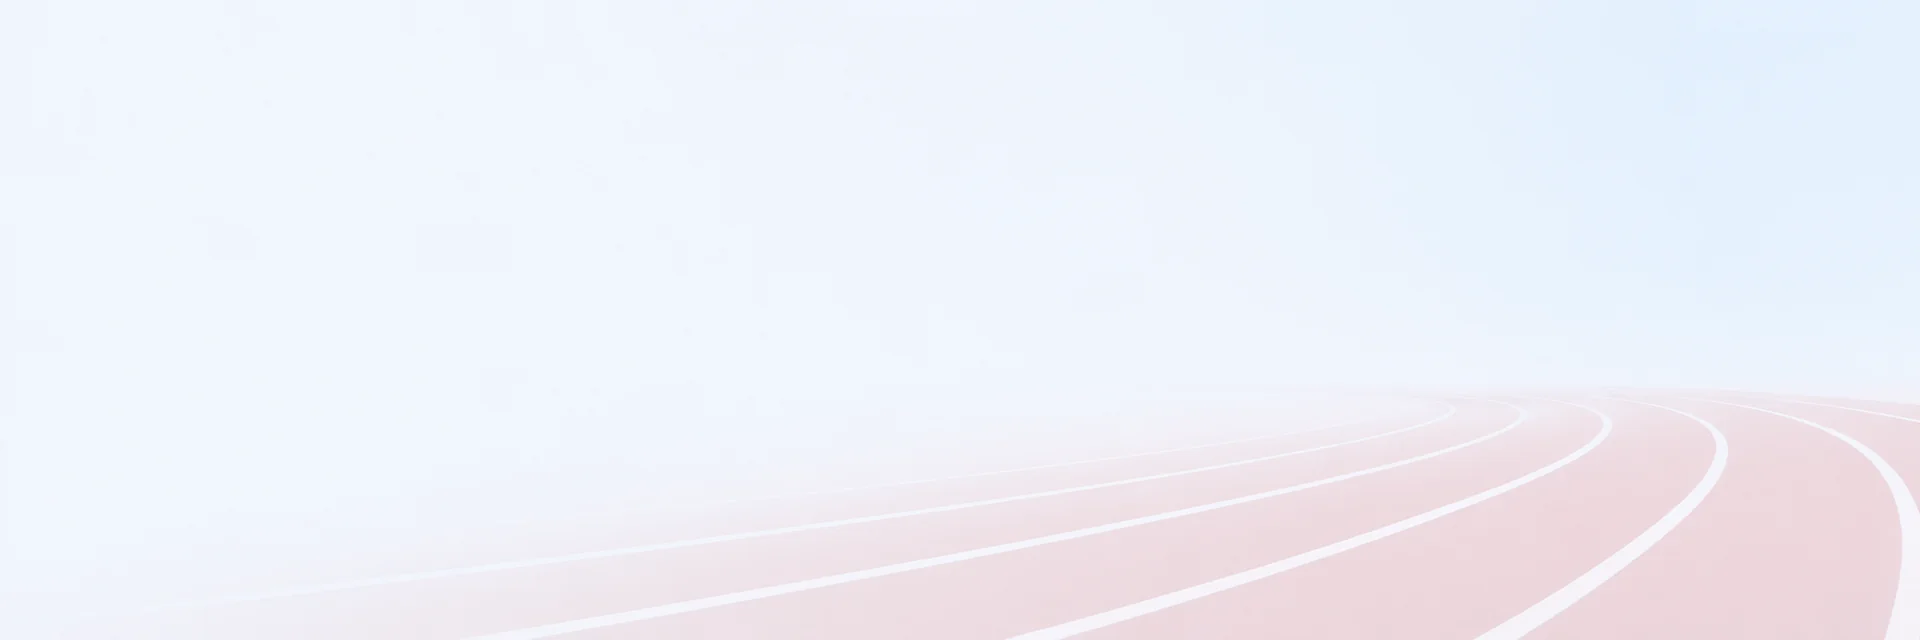
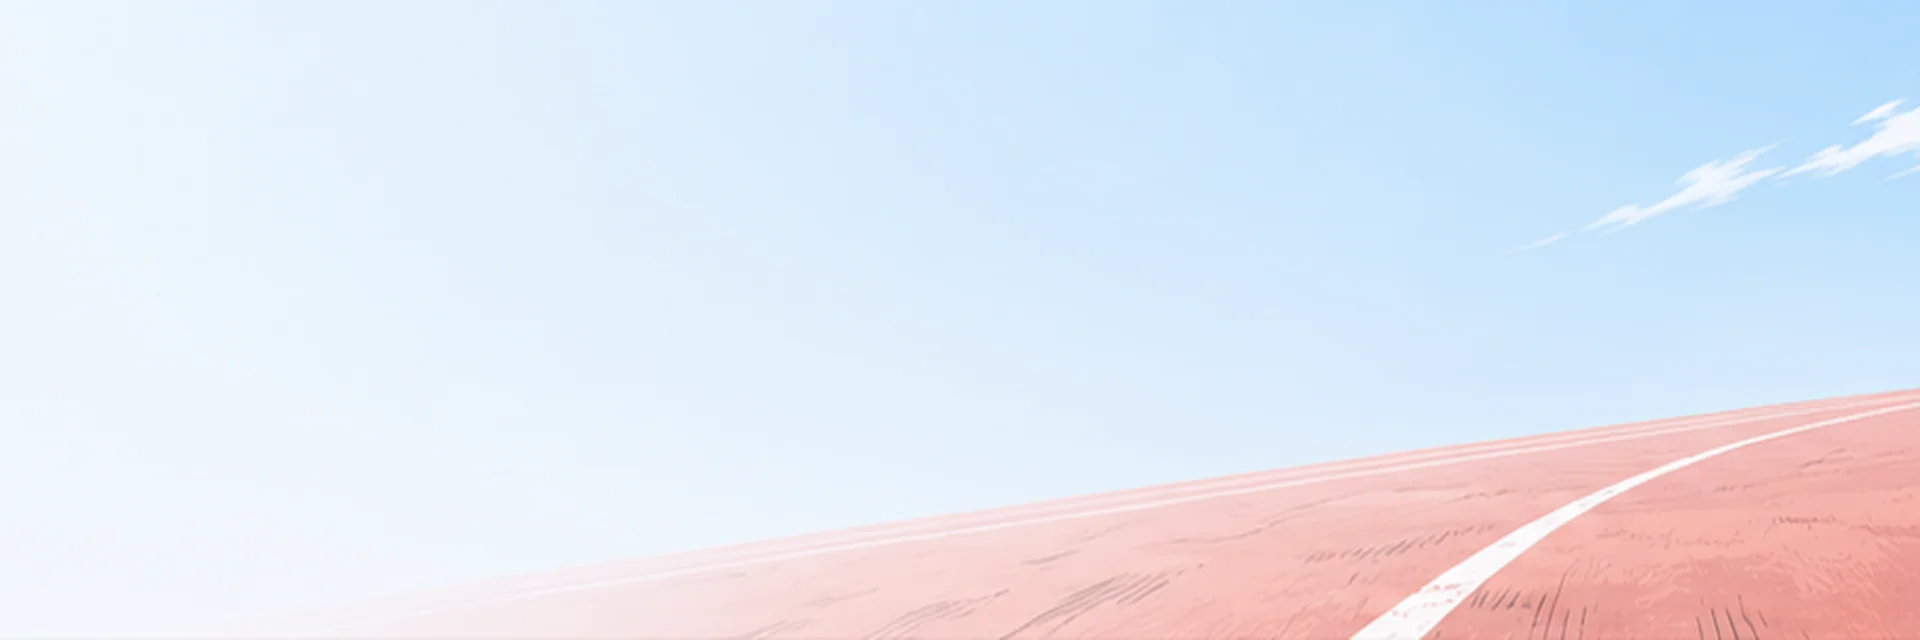
desain(G10-02): Ilustrasi anime halaman depan dan sapuan hero

diff --git a/desain/catatan/G10-02.md b/desain/catatan/G10-02.md
@@ -1,0 +1,29 @@
+# G10-02 Ilustrasi halaman depan
+
+| Berkas | Ukuran | Format | KB |
+|---|---|---|---:|
+| `tokoh-lari.webp` | 1200 × 1200 | WebP alfa | 99,73 |
+| `tokoh-lompat.webp` | 1200 × 1200 | WebP alfa | 98,25 |
+| `tokoh-lempar.webp` | 1200 × 1200 | WebP alfa | 92,64 |
+| `latar-pita.webp` | 1920 × 640 | WebP | 53,24 |
+| `latar-lintasan.webp` | 1920 × 640 | WebP | 17,84 |
+| `latar-angka.webp` | 1920 × 900 | WebP | 100,65 |
+| `kartu-ku.webp` | 800 × 600 | WebP alfa | 42,59 |
+| `hero-sapuan.webp` | 1600 × 900 | WebP alfa | 22,84 |
+
+Prompt dasar dan tambahan tetap berikut dipakai bersama adegan di tabel. Garis tinta, bayangan keras, dan palet mengacu pada rujukan lintasan.
+
+> 2D cel-shaded sports anime illustration, school-age track athletes, dynamic sprint poses, bold linework, crisp shadow shapes, low-angle track composition, brand-colored jerseys. Clean background, no text, no letters, no numbers, no logos, no watermark, modest sportswear, Indonesian school kids, original characters.
+
+| Berkas | Ringkasan arahan gambar |
+|---|---|
+| `tokoh-lari.webp` | Tokoh A sprint ke kanan, sudut rendah dengan garis kecepatan tipis di belakang. |
+| `tokoh-lompat.webp` | Tokoh B berjilbab olahraga melayang dengan kaki menjorok ke depan. |
+| `tokoh-lempar.webp` | Tokoh C memutar badan sambil menyiapkan peluru di leher. |
+| `latar-pita.webp` | Sapuan tinta biru, oranye dan magenta dari kanan bawah menuju kanan atas, sisi kiri putih kebiruan. |
+| `latar-lintasan.webp` | Tikungan lintasan merah bata dalam cahaya terang dengan garis putih dan kontras rendah untuk kartu. |
+| `latar-angka.webp` | Tribun sekolah di siang hari, langit biru bergaris awan, atap stadion dan lintasan tanpa orang. |
+| `kartu-ku.webp` | Kerucut, gawang mini, turbo busa, peluru dan tongkat estafet dengan bayangan bidang tajam. |
+| `hero-sapuan.webp` | Aksen putih dan oranye tipis bergerak diagonal naik dari kiri bawah ke kanan atas. |
+
+Logo resmi dari `sumber/logo/logo-milklife-athletics-challenge.webp` ditempel dengan Pillow sesudah ilustrasi selesai. Alfa asli dipertahankan, warna tidak diubah, dan lebar sasaran sekitar 18–22% dari dada yang terlihat. Sudut stempel disesuaikan dengan arah bahu. Pose tunggal diambil dari cabang G10-01, disusun ulang dan dilengkapi sapuan untuk A. Logo A dan C sudah tertempel pada sumber pose G10-01. Sudut badan B menutupi area logo.
